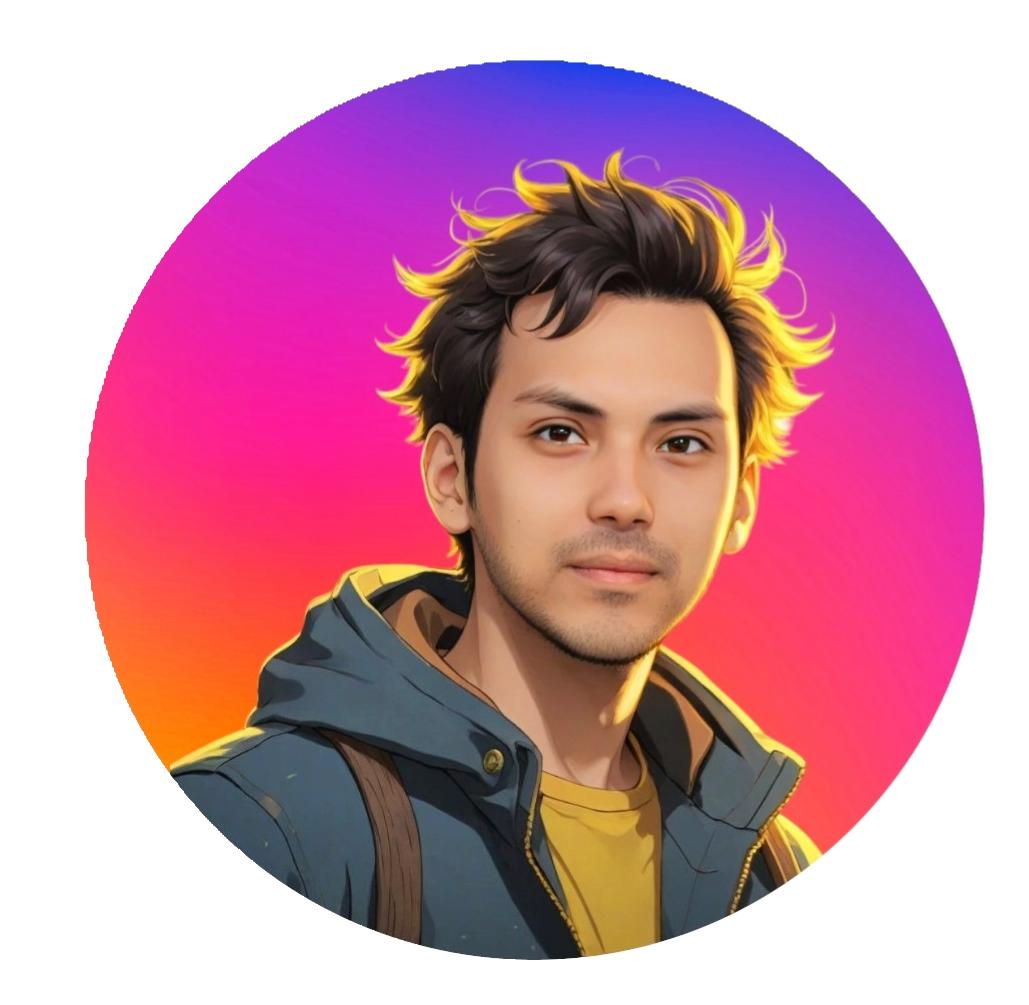
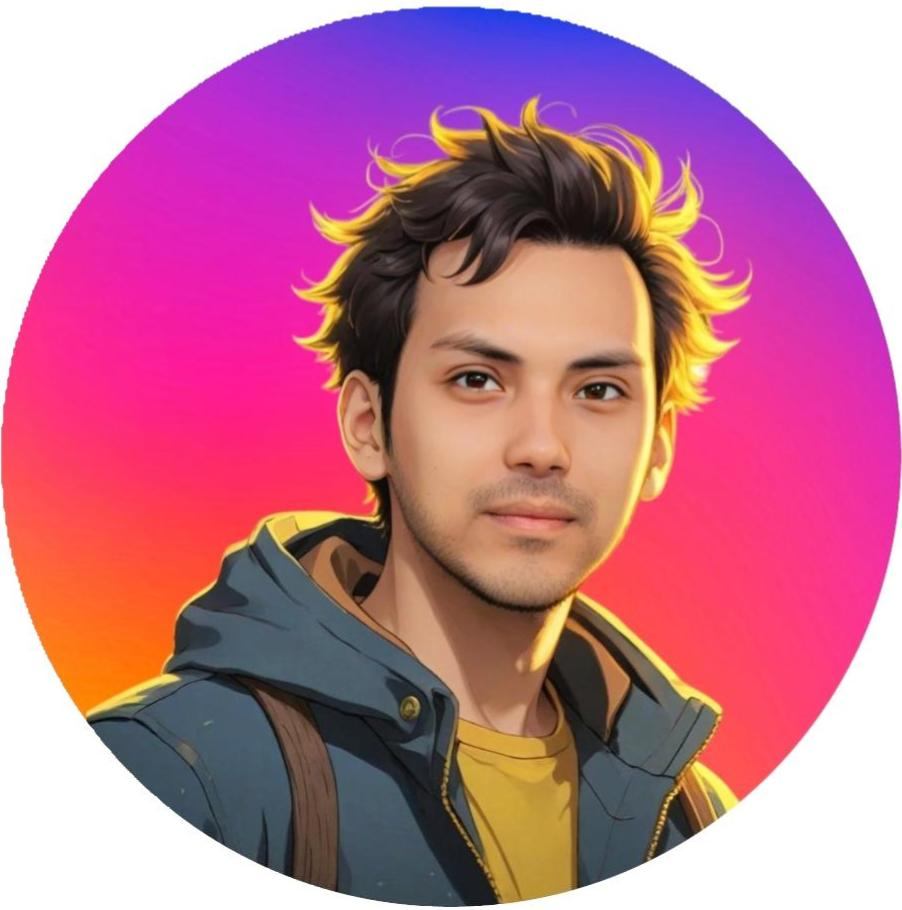
Se realiza el arreglo de la foto

diff --git a/index.html b/index.html
@@ -9,9 +9,10 @@
 <body>
     <div class="contanier1">
         <div class="marco">
-        <img class="foto" src="imagenes/foto-Photoroom.jpg" alt="">
-        <h1>EDGAR CASTIBLANCO</h1>
-        <h3>HTML, CSS and JS apprentice, Gamer y Spartan⌨⌚💻🎮🕹 </h3>
+            <div class="containerfoto">
+            <img class="foto" src="imagenes/foto-Photoroom.jpg" alt=""></div>
+            <h1>EDGAR CASTIBLANCO</h1>
+            <h3>HTML, CSS and JS apprentice, Gamer y Spartan⌨⌚💻🎮🕹 </h3>
     </div>
 </div>
     <div class="container2">

diff --git a/style.css b/style.css
@@ -7,14 +7,21 @@ body {
     width: 800px;
 }
 .foto{
-    width: 35%;
+    width: 45%;
+    height: auto;
+    border-radius: 50%;
+}
+.containerfoto{
+    width: 45%;
     height: auto;
 }
 .marco {
     width: 40%;
+    height: auto;
     top: 10%;
     right: 55%;
     position: fixed;
+
 }
 .container2 {
     display: grid;
